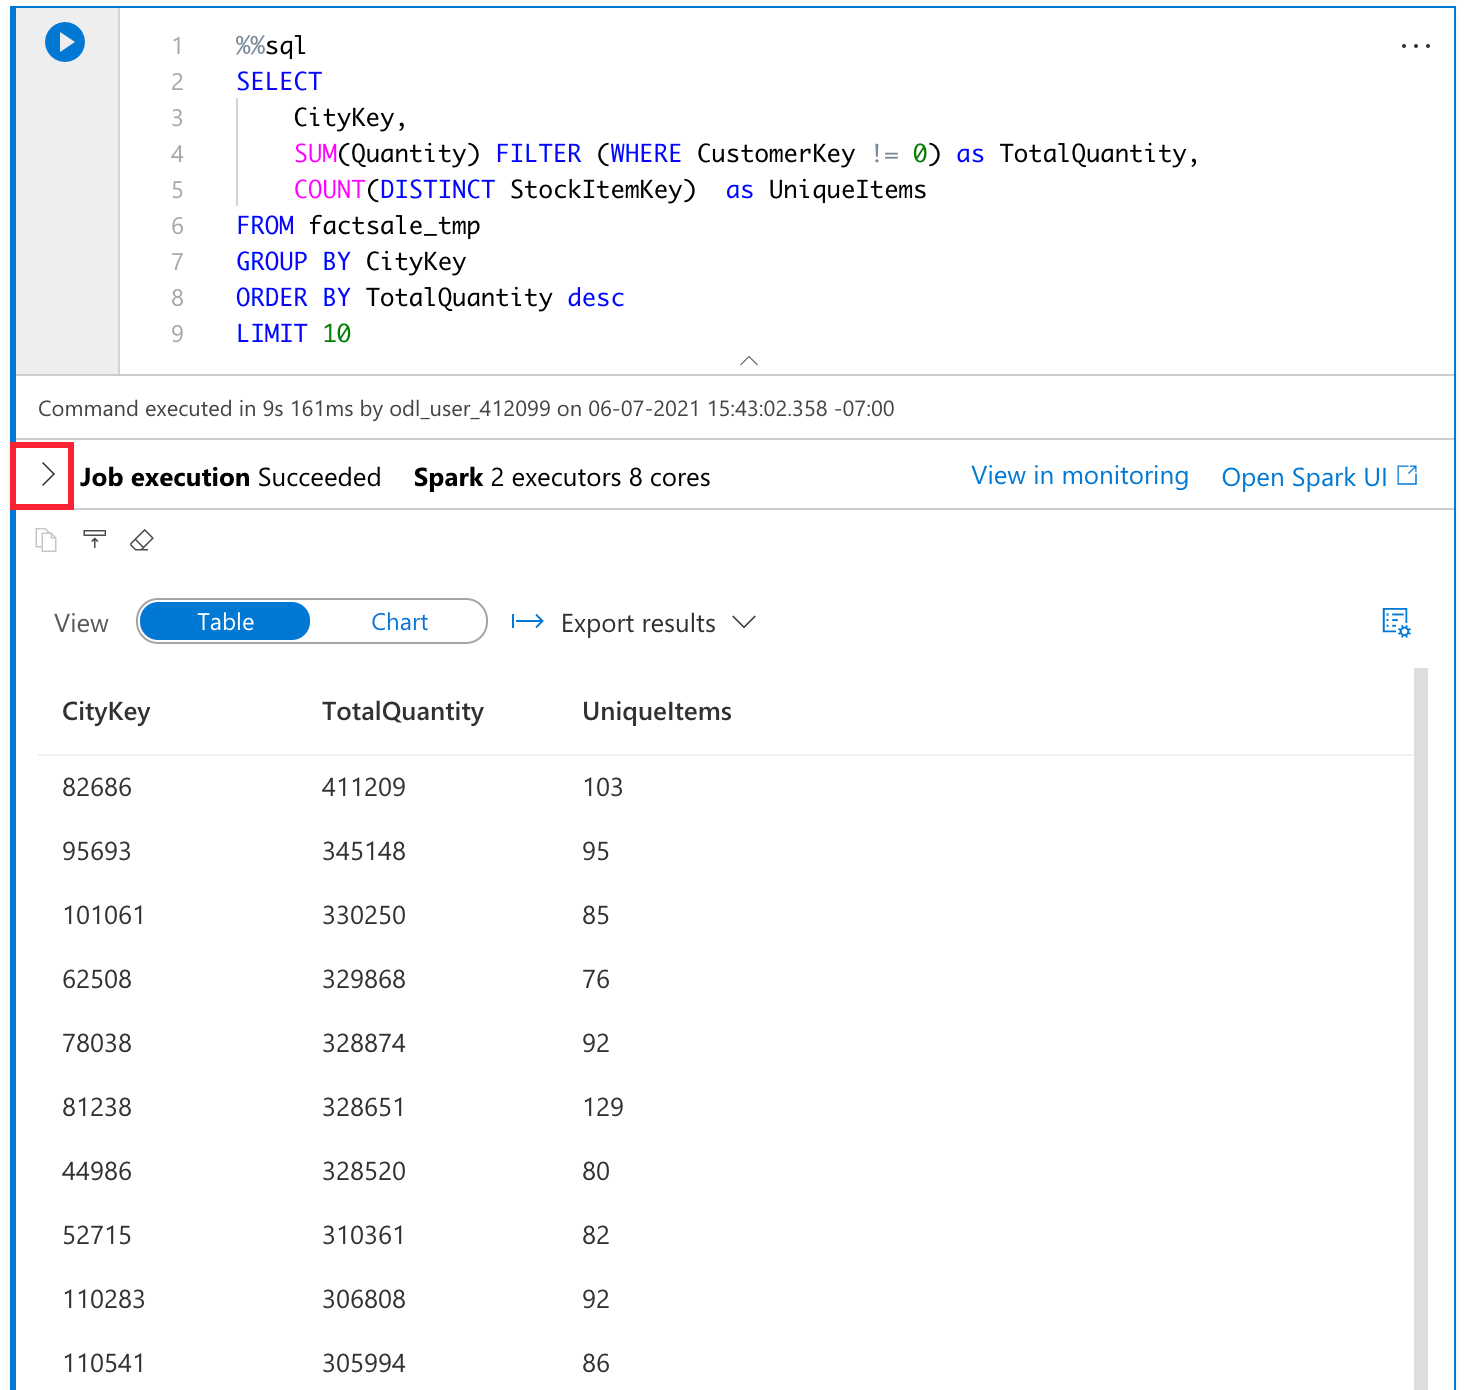
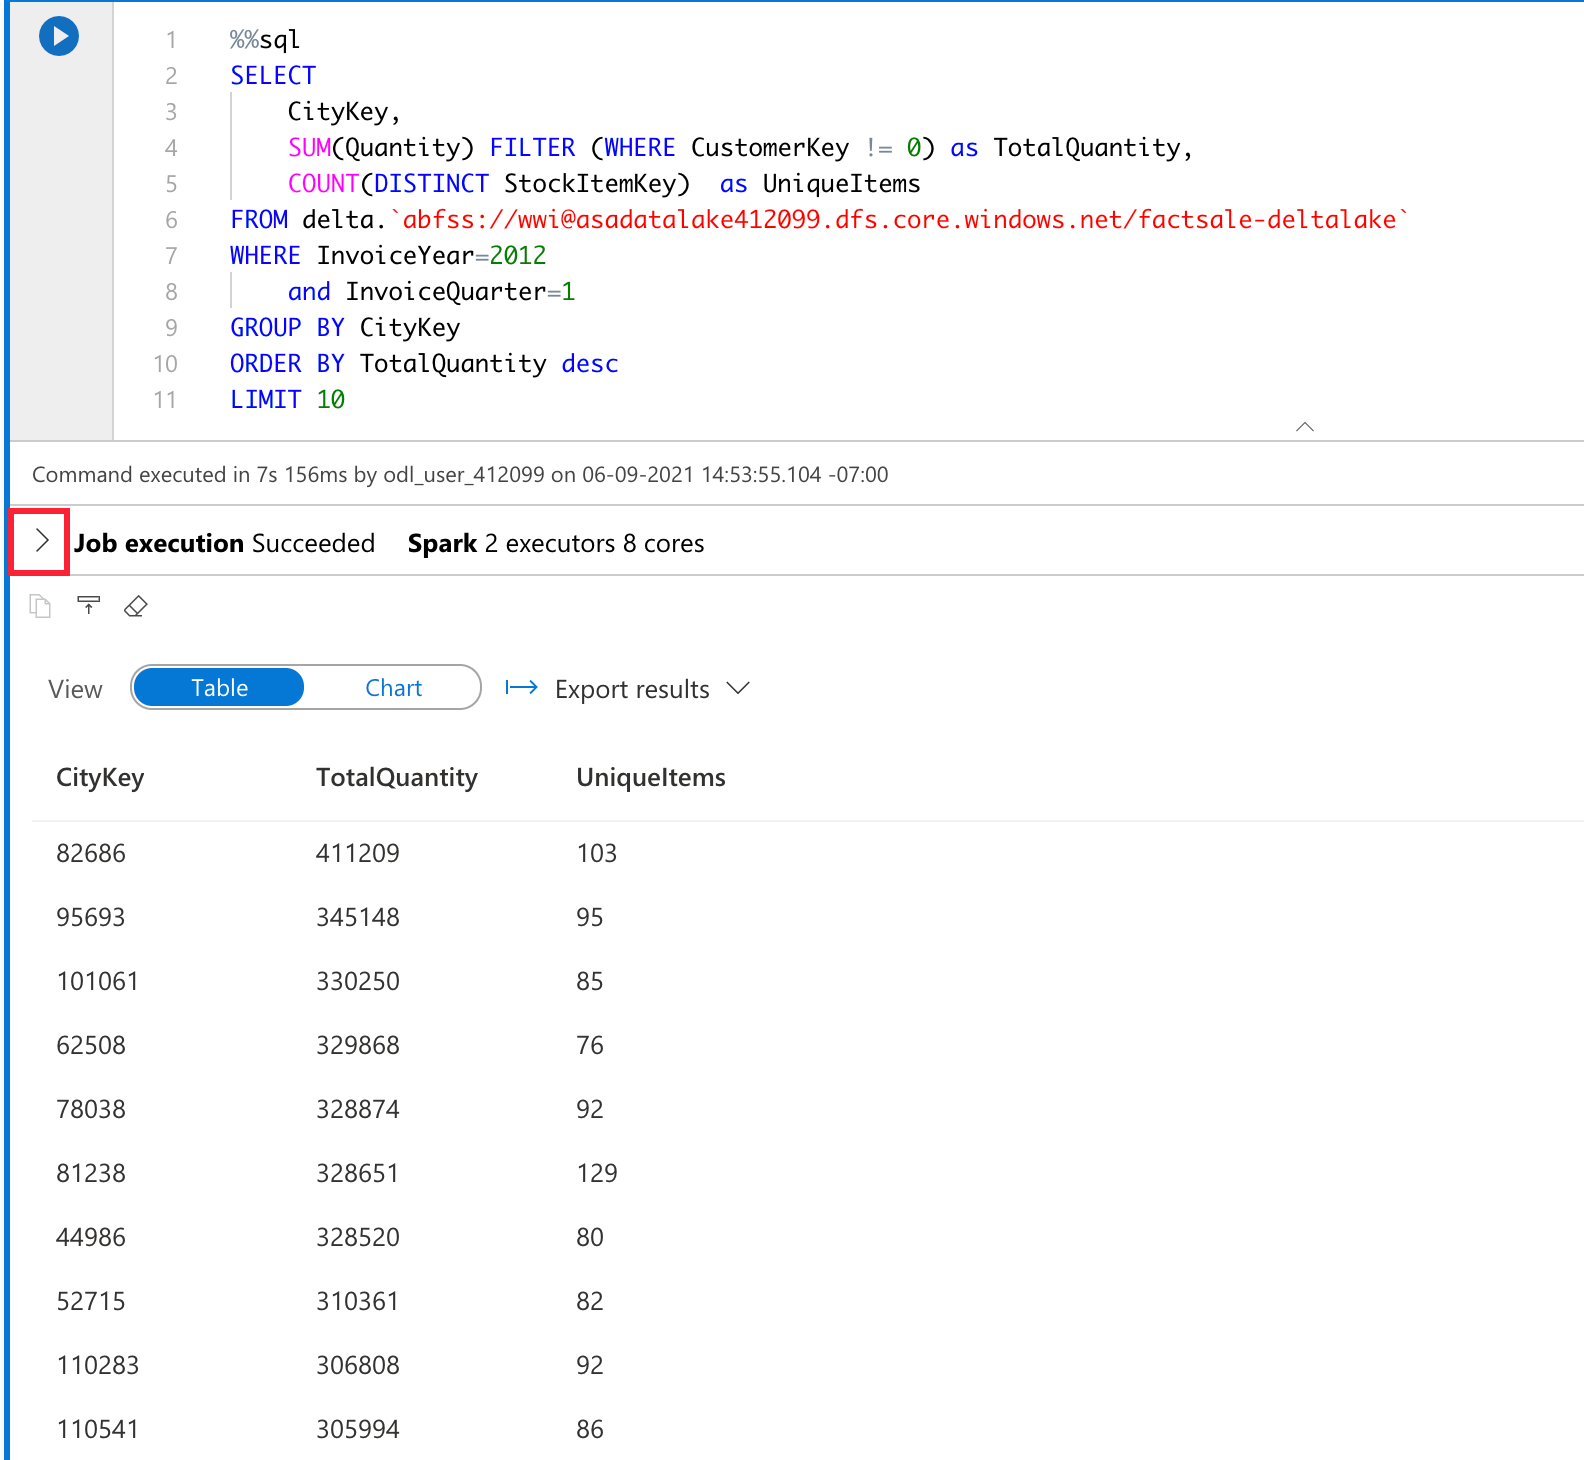
Add spark read from delta lake

diff --git a/01-explore-data-lake.md b/01-explore-data-lake.md
@@ -203,11 +203,9 @@ In this task, you will browse your data lake using serverless SQL pool.
 
     > This notebook demonstrates the same functionality, except this time, it loads CSV files instead of Parquet ones (notice the `factsale-csv` folder in the path).
 
-11. Add another cell and paste the following into the cell. Select the **Run cell** button to execute. The first line of this statement registers the dataset as a temporary table. The rest of the statement is setting configurations used by Apache Spark 3.0.
+11. Add another cell and paste the following into the cell. Select the **Run cell** button to execute.This statement is setting configurations used by Apache Spark 3.0.
 
     ```python
-    data_path.createOrReplaceTempView("factsale_tmp")
-
     spark.conf.set("spark.sql.adaptive.enabled", "true")
     spark.conf.set("spark.sql.adaptive.coalescePartitions.enabled", "true")
     spark.conf.set("spark.sql.adaptive.coalescePartitions.minPartitionNum", 4)
@@ -216,7 +214,7 @@ In this task, you will browse your data lake using serverless SQL pool.
 
     > The Apache Spark pool for the lab is using Spark 3.0, which provides performance benefits over previous versions. These configurations enable Adaptive Query Execution and set how Spark should optimize partitioning during job execution. ANSI SQL is also enabled to check for data type errors and overflow errors.
 
-12. Add another cell and paste the following statement. Select the **Run cell** button to execute. This uses the magic command `%%sql` to change language of the cell to Spark SQL. The SQL statement returns the top 10 cities based on total quantity.
+12. Add another cell and paste in the SQL statement to read from a Delta Lake path. Replace `YOUR_DATALAKE_NAME` with your **Storage Account Name**. Select the **Run cell** button to execute. This uses the magic command `%%sql` to change language of the cell to Spark SQL. The SQL statement returns the top 10 cities based on total quantity.
 
     ```sql
     %%sql
@@ -224,13 +222,15 @@ In this task, you will browse your data lake using serverless SQL pool.
         CityKey,
         SUM(Quantity) FILTER (WHERE CustomerKey != 0) as TotalQuantity,
         COUNT(DISTINCT StockItemKey) as UniqueItems
-    FROM factsale_tmp
+    FROM delta.`abfss://wwi@asadatalake412099.dfs.core.windows.net/factsale-deltalake`
+    WHERE InvoiceYear=2012
+        and InvoiceQuarter=1
     GROUP BY CityKey
     ORDER BY TotalQuantity desc
     LIMIT 10
     ```
 
-    > Since ANSI SQL is enabled, if Quantity values are not numeric this query would return an error instead of treating the value as `NULL`.
+    > Delta Lake is a popular format for storing data in a data lake since it supports upserts, deletes, and data versioning. You can access it using Spark SQL as shown here or by reading in as a DataFrame using `format(delta)`.
 
 13. Expand the job execution summary by selecting the arrow next to **Job execution**.
 
@@ -238,7 +238,7 @@ In this task, you will browse your data lake using serverless SQL pool.
 
     > The job execution shows the jobs, stages, and tasks that Spark ran when the cell was executed. This view shows duration and other performance characteristics that are important to consider if the notebook will be used repeatedly.
 
-14. Notice the **Tasks** column shows the first job with 8 tasks then adjusts to 5 for tasks per job which is suitable for this small cluster and dataset. When running the same code with a larger dataset, the Adaptive Query Execution feature of Spark 3.0 can modify the query plan to be more efficient. In addition, you can enable autoscaling on your Apache Spark pool so it can automatically grow when the workload on the Spark pool increases.
+14. Notice the **Tasks** column shows the first job with 50 tasks as it reads in from files, then adjusts to 8 and then 5 tasks per job which is suitable for this small cluster and dataset. When running the same code with a larger dataset, Spark 3.0 can modify the query plan to be more efficient. In addition, you can enable autoscaling on your Apache Spark pool so it can automatically grow when the workload on the Spark pool increases.
 
     ![The job execution is displayed and the Tasks column is highlighted.](media/notebook-spark-job-execution-expanded.png "Job execution tasks")
 
